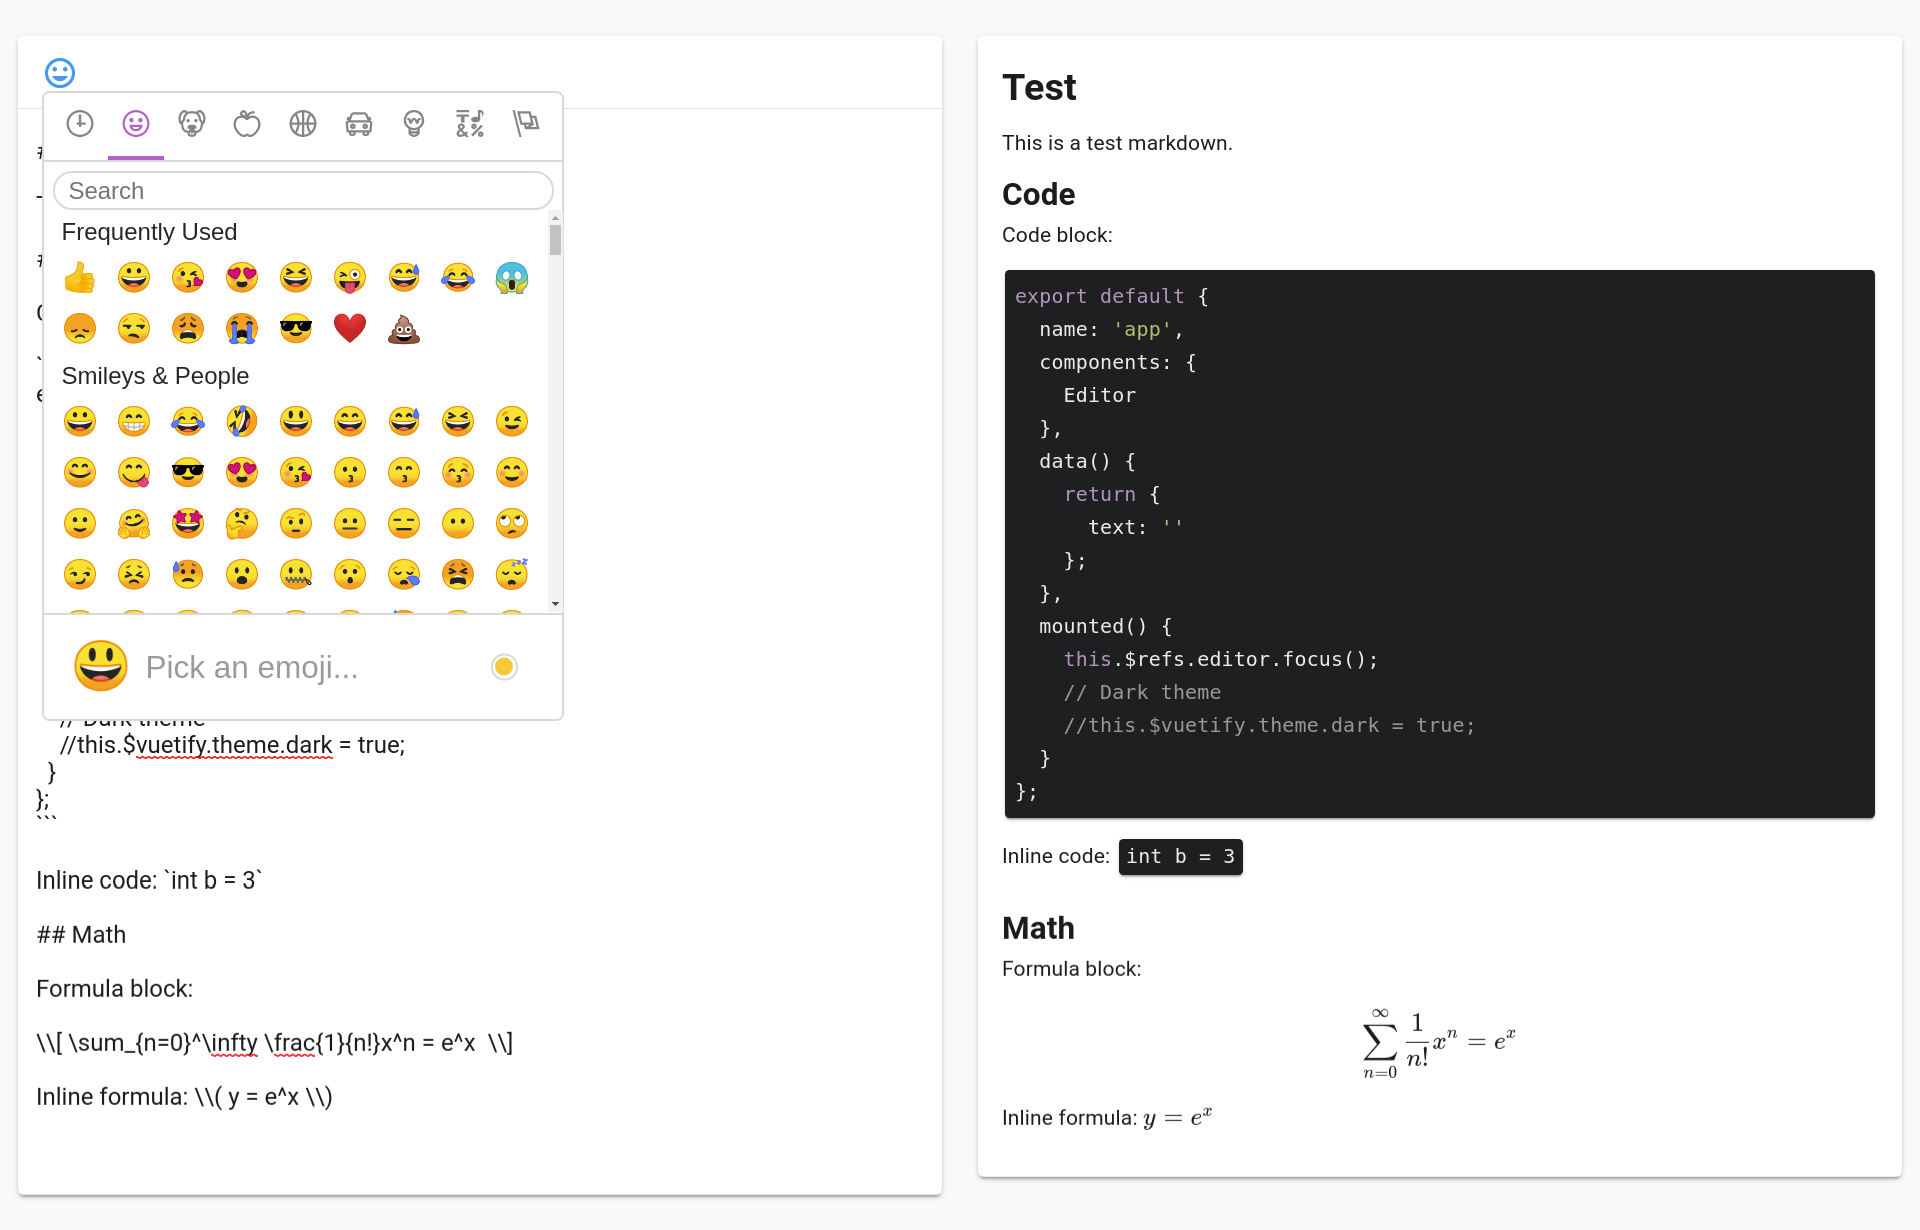
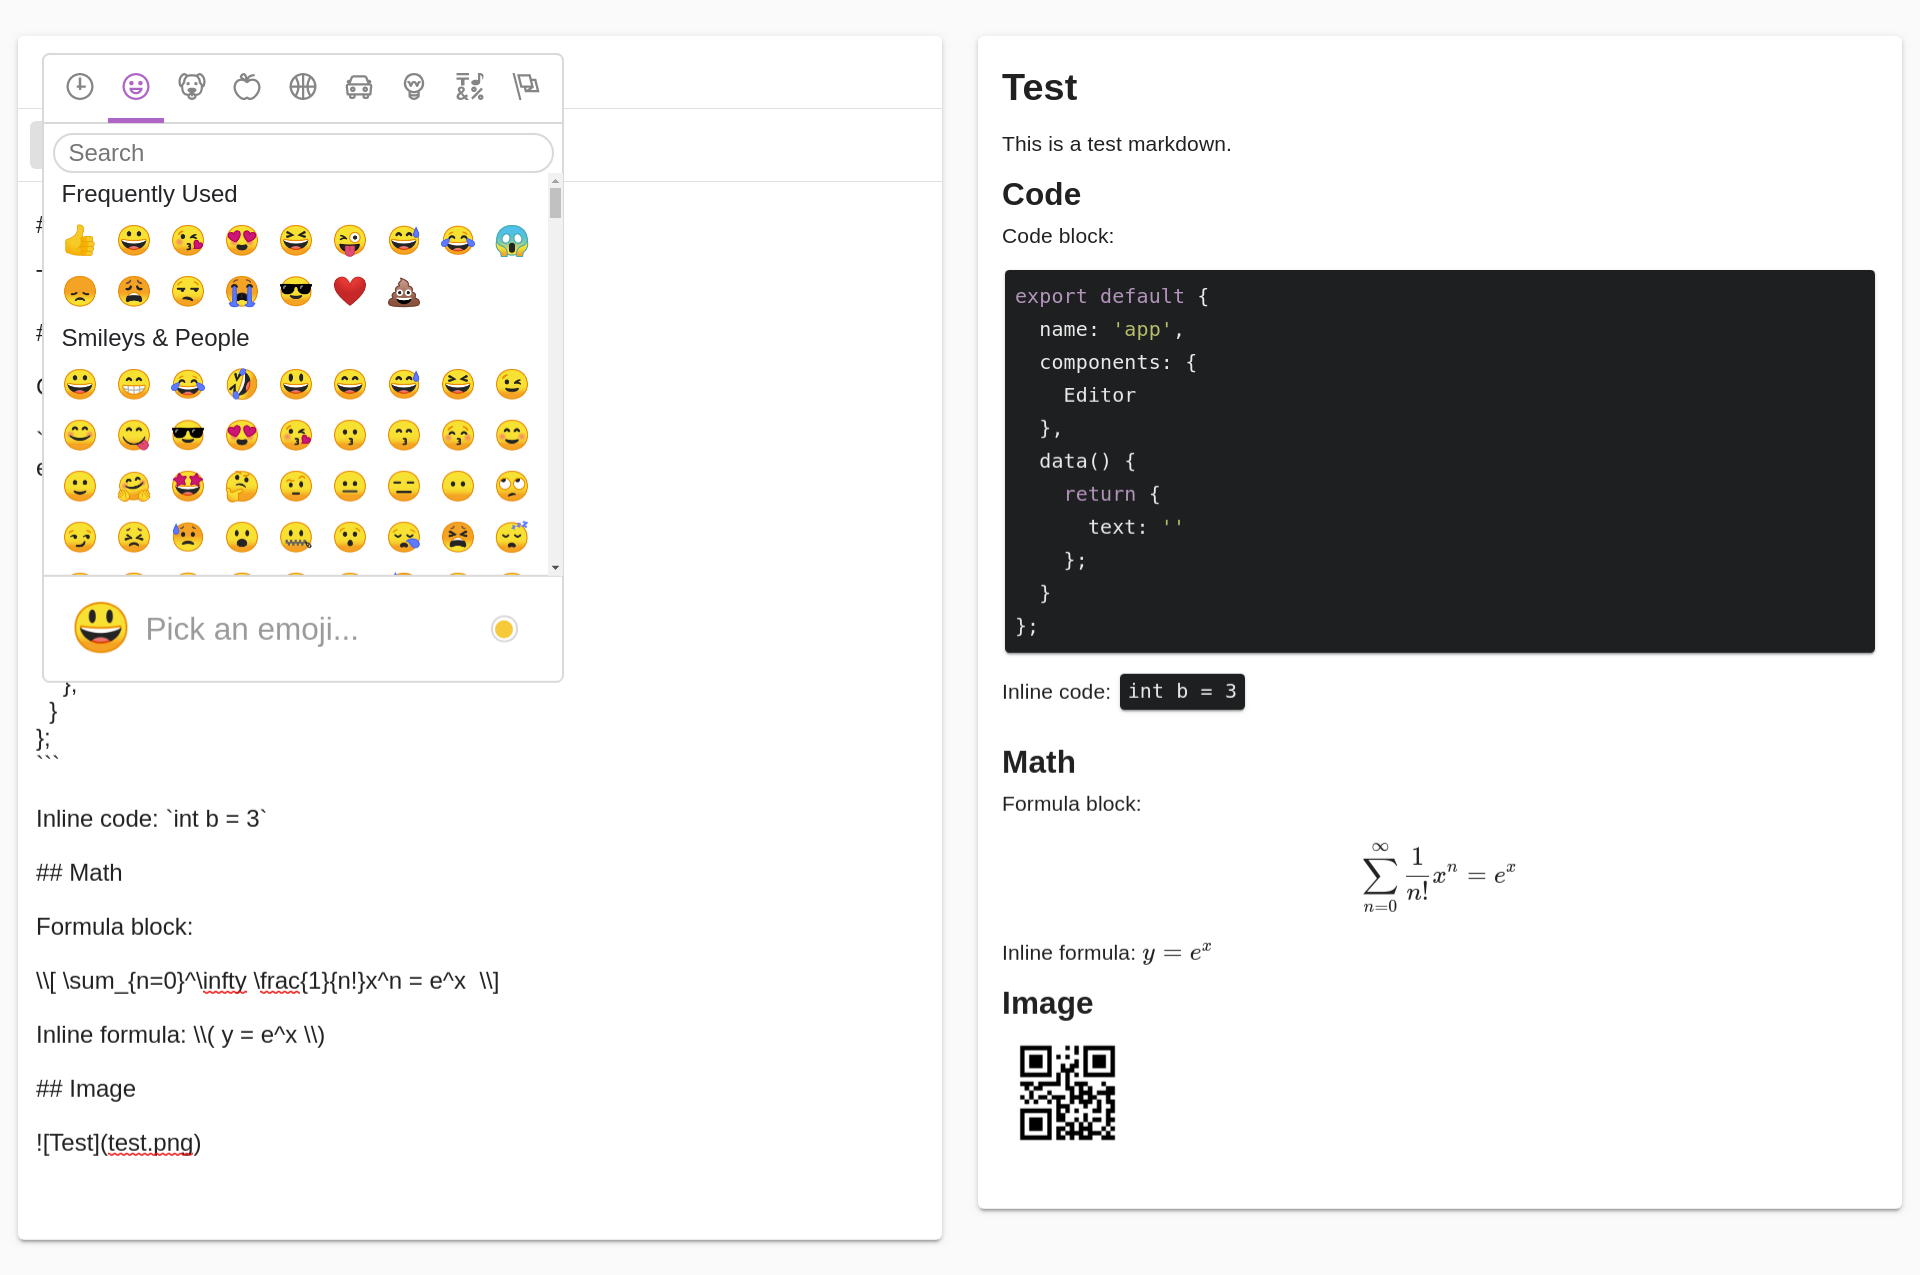
Update README and screenshots

diff --git a/src/App.vue b/src/App.vue
@@ -31,7 +31,7 @@ export default {
     // this.$refs.editor.upload();
 
     // Dark theme
-    //this.$vuetify.theme.dark = true;
+    this.$vuetify.theme.dark = true;
   }
 };
 </script>

diff --git a/README.md b/README.md
@@ -62,7 +62,7 @@ remember to add css files for Katex and highlight.js:
 - Code highlighting
 - Emoji picking
 - Math formula (use `\\[` and `\\]` for formula block, and `\\(` and `\\)` for inline formula)
-- Image uploading and previewing
+- Image uploading and previewing (to use uploaded image in markdown, use the filename as the link)
 
 ## Usage
 
@@ -158,6 +158,9 @@ Solo mode: `<Editor v-model="text" />`
 
 Outline mode: `<Editor outline v-model="text" />`
 ![Outline](screenshots/outline.png)
+
+Dark mode: `this.$vuetify.theme.dark = true;`
+![Dark](screenshots/dark.png)
 
 Emoji:
 ![Emoji](screenshots/emoji.png)

diff --git a/tests/test.md b/tests/test.md
@@ -16,11 +16,6 @@ export default {
     return {
       text: ''
     };
-  },
-  mounted() {
-    this.$refs.editor.focus();
-    // Dark theme
-    //this.$vuetify.theme.dark = true;
   }
 };
 ```
